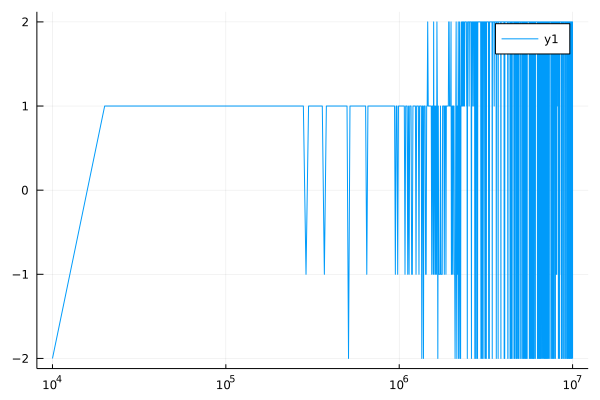
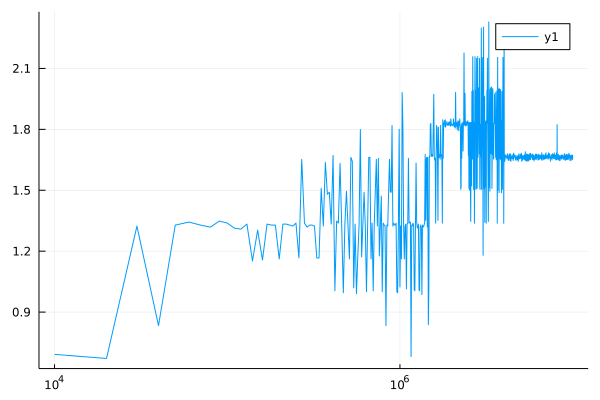
use nash_conv to evaluate the experiment

diff --git a/README.md b/README.md
@@ -4,7 +4,7 @@ Use `RL.jl` to implement `Neural Fictitious Self-play(NFSP)` algorithm and test 
 
 ### NFSPAgent's structure:
 
-* \eta(anticipatory parameter):
+* anticipatory parameter($\eta$):
 
     ```julia
     if rand() < \eta
@@ -93,9 +93,8 @@ wrapped_env = StateTransformedEnv(
 #### result
 
 * used time : about 10 min.
-* evaluation_metric: player 1's reward
+* evaluation_metric: nash_conv
 
 <div align="center">
-<img src="./scatter_result.png" height="300px" alt="scatter_result" >
 <img src="./result.png" height="300px" alt="result" >
 </div>
